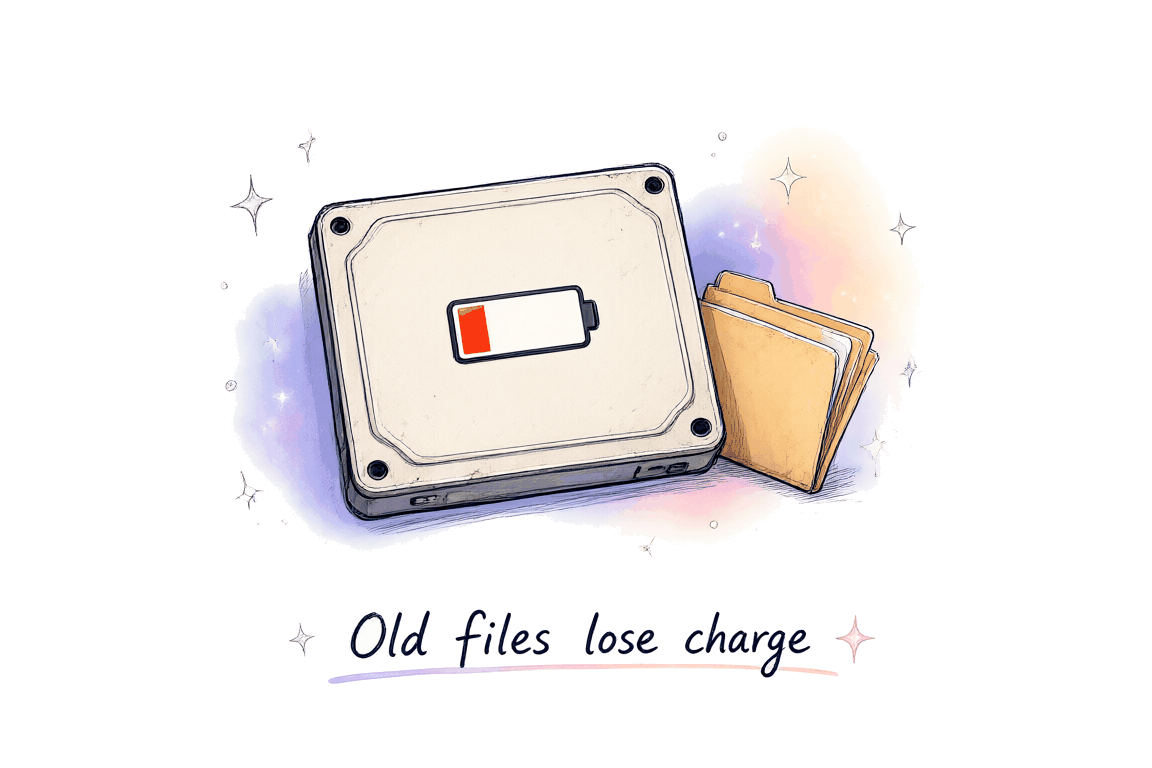
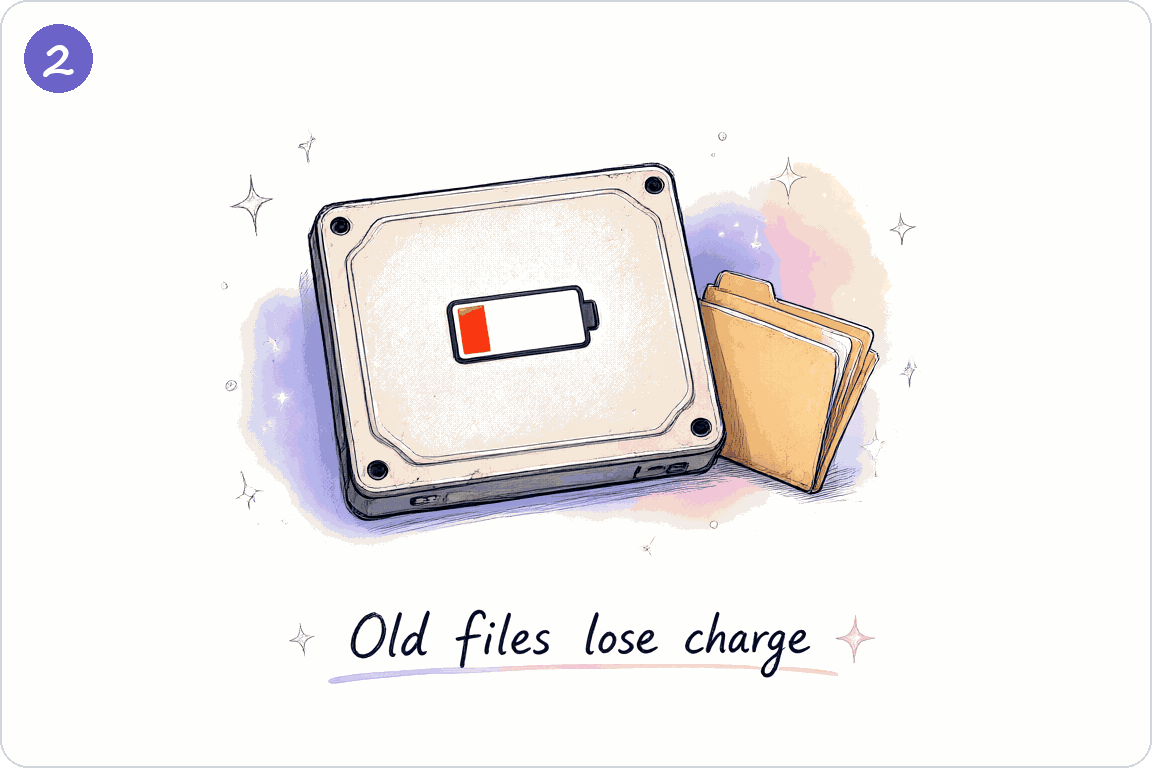
Add step number badges and a card border that works in dark theme

diff --git a/docs/images/qwen/finish_image.py b/docs/images/qwen/finish_image.py
@@ -1,0 +1,53 @@
+"""Finish a raw Qwen-Image PNG for the README.
+
+Use: uv run --with pillow --with numpy python finish_image.py RAW.png STEP_NUMBER OUT.png
+
+What it does:
+1. Makes the near-white background pure white.
+2. Draws a round badge with the step number at the top left.
+3. Adds a thin gray border with round corners. Corners are transparent.
+   The image then looks like a white card on the dark GitHub theme.
+4. Reduces the PNG to 256 colors.
+"""
+import sys
+
+import numpy as np
+from PIL import Image, ImageDraw, ImageFont
+
+BADGE_COLOR = (108, 99, 201)  # violet-blue from the palette
+BORDER_COLOR = (208, 215, 222)
+RADIUS = 28
+
+
+def whiten(img):
+    a = np.asarray(img.convert("RGB")).astype(float)
+    low, spread = a.min(axis=2), a.max(axis=2) - a.min(axis=2)
+    # weight is 1 for near-white gray pixels and 0 for colored pixels
+    weight = np.clip((low - 236) / 10, 0, 1) * (spread <= 8)
+    a += (255 - a) * weight[..., None]
+    return Image.fromarray(a.round().astype("uint8"))
+
+
+def add_badge(img, number):
+    draw = ImageDraw.Draw(img)
+    cx, cy, r = 58, 58, 34
+    draw.ellipse((cx - r, cy - r, cx + r, cy + r), fill=BADGE_COLOR)
+    font = ImageFont.truetype("C:/Windows/Fonts/segoeprb.ttf", 44)
+    draw.text((cx, cy), str(number), font=font, fill="white", anchor="mm")
+
+
+def round_card(img):
+    mask = Image.new("L", img.size, 0)
+    ImageDraw.Draw(mask).rounded_rectangle((0, 0, *img.size), RADIUS, fill=255)
+    out = img.convert("RGBA")
+    out.putalpha(mask)
+    ImageDraw.Draw(out).rounded_rectangle(
+        (0, 0, img.size[0] - 1, img.size[1] - 1), RADIUS, outline=BORDER_COLOR + (255,), width=2
+    )
+    return out
+
+
+raw, number, dest = sys.argv[1], sys.argv[2], sys.argv[3]
+img = whiten(Image.open(raw))
+add_badge(img, number)
+round_card(img).quantize(256, method=Image.Quantize.FASTOCTREE).save(dest, optimize=True)

diff --git a/docs/images/qwen/PROMPTS.md b/docs/images/qwen/PROMPTS.md
@@ -15,7 +15,7 @@ These four images were made with Qwen-Image-2.1-Turbo on a local PC. Use this fi
 | Sampler | euler |
 | Size | 1152 x 768 pixels |
 | Negative prompt | empty |
-| After making | PNG reduced to 256 colors with Pillow (`optimize=True`) |
+| After making | Run `finish_image.py` (white background, step number badge, round border, 256 colors) |
 
 ## Style words
 
@@ -60,8 +60,10 @@ RTX 4070 Laptop GPU with 8 GB VRAM. One image takes about 25 to 33 seconds when 
 1. Start ComfyUI with the Qwen-Image-2.1-Turbo workflow above.
 2. Change the words in the prompt. Keep the same style text.
 3. Try 4 seeds. Pick the image with correct spelling in all words.
-4. Save the new PNG over the old file. Add a line below to say what changed.
+4. Run `uv run --with pillow --with numpy python finish_image.py RAW.png STEP_NUMBER stepN.png` on the raw PNG.
+5. Add a line below to say what changed.
 
 ## Change log
 
 - 2026-10-18: first version of the four images.
+- 2026-10-18: all backgrounds pure white, step number badges, round gray border for the dark theme.
